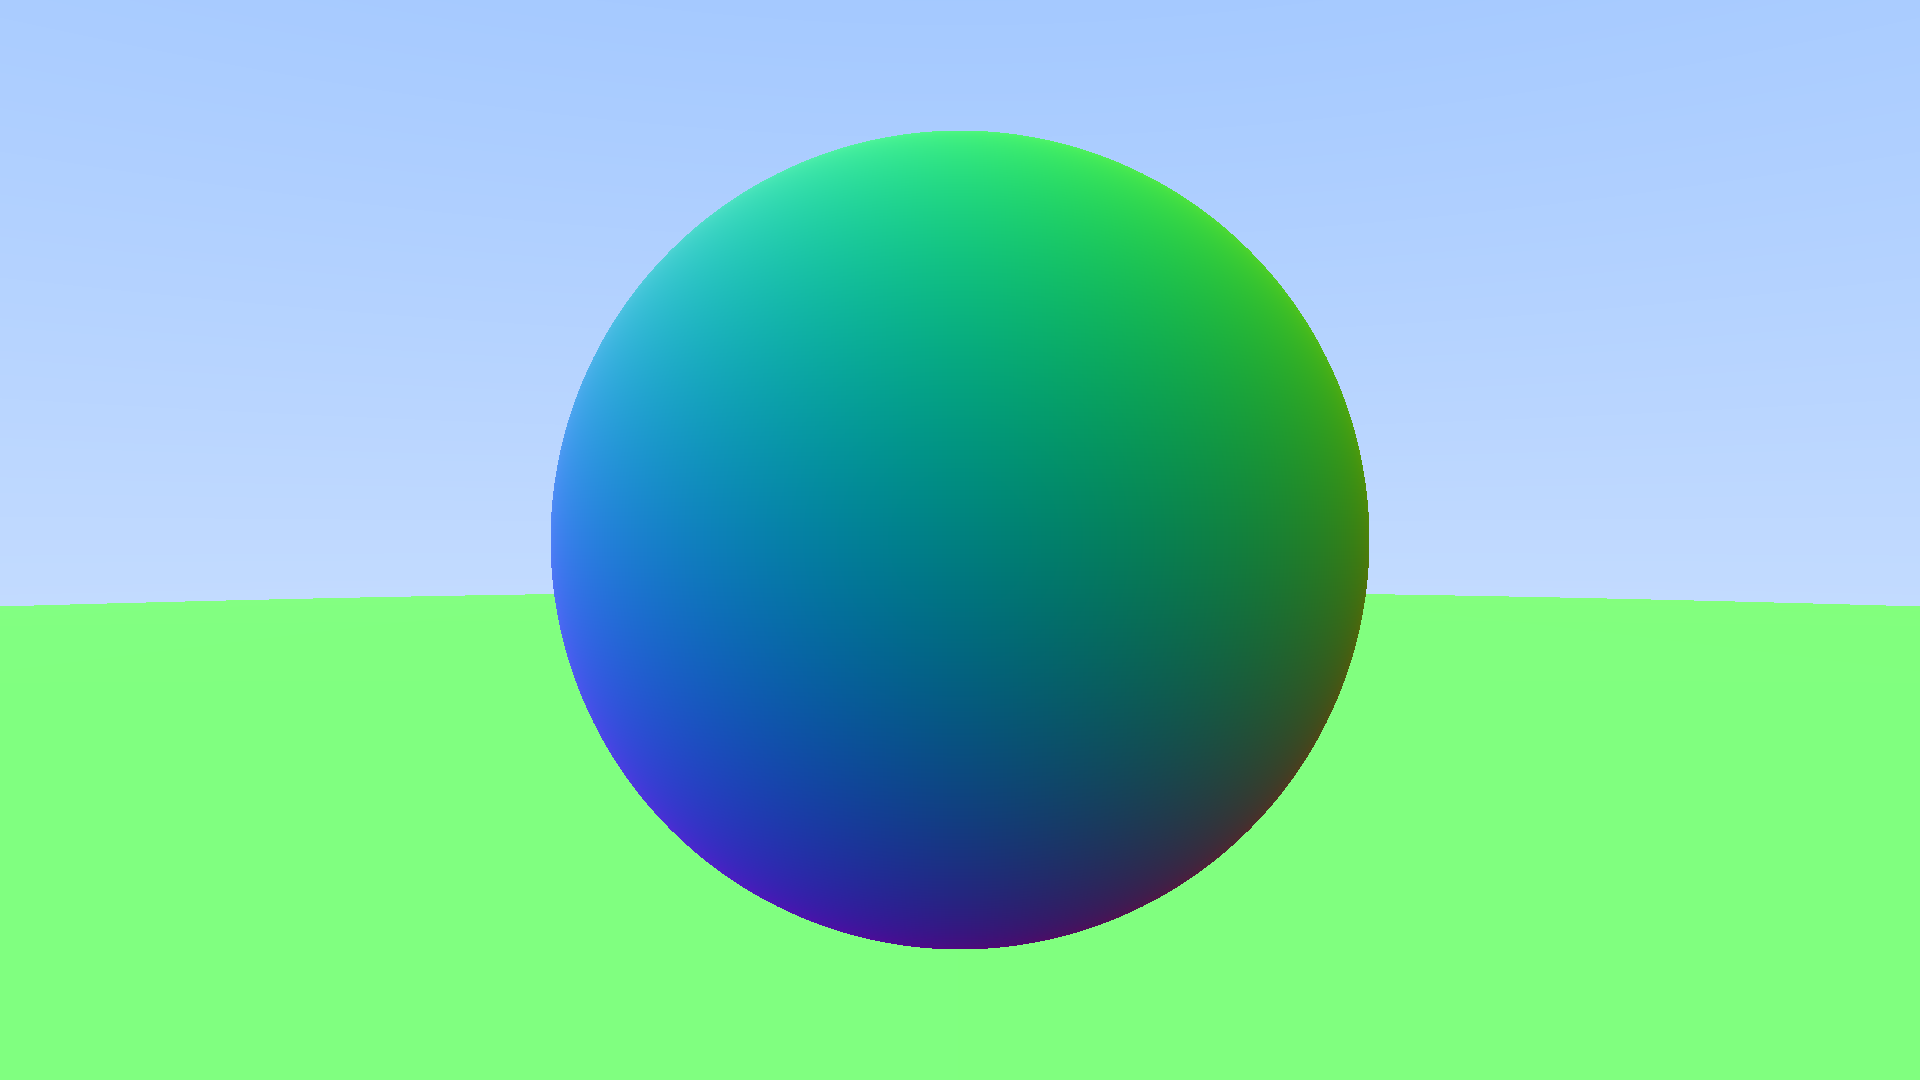
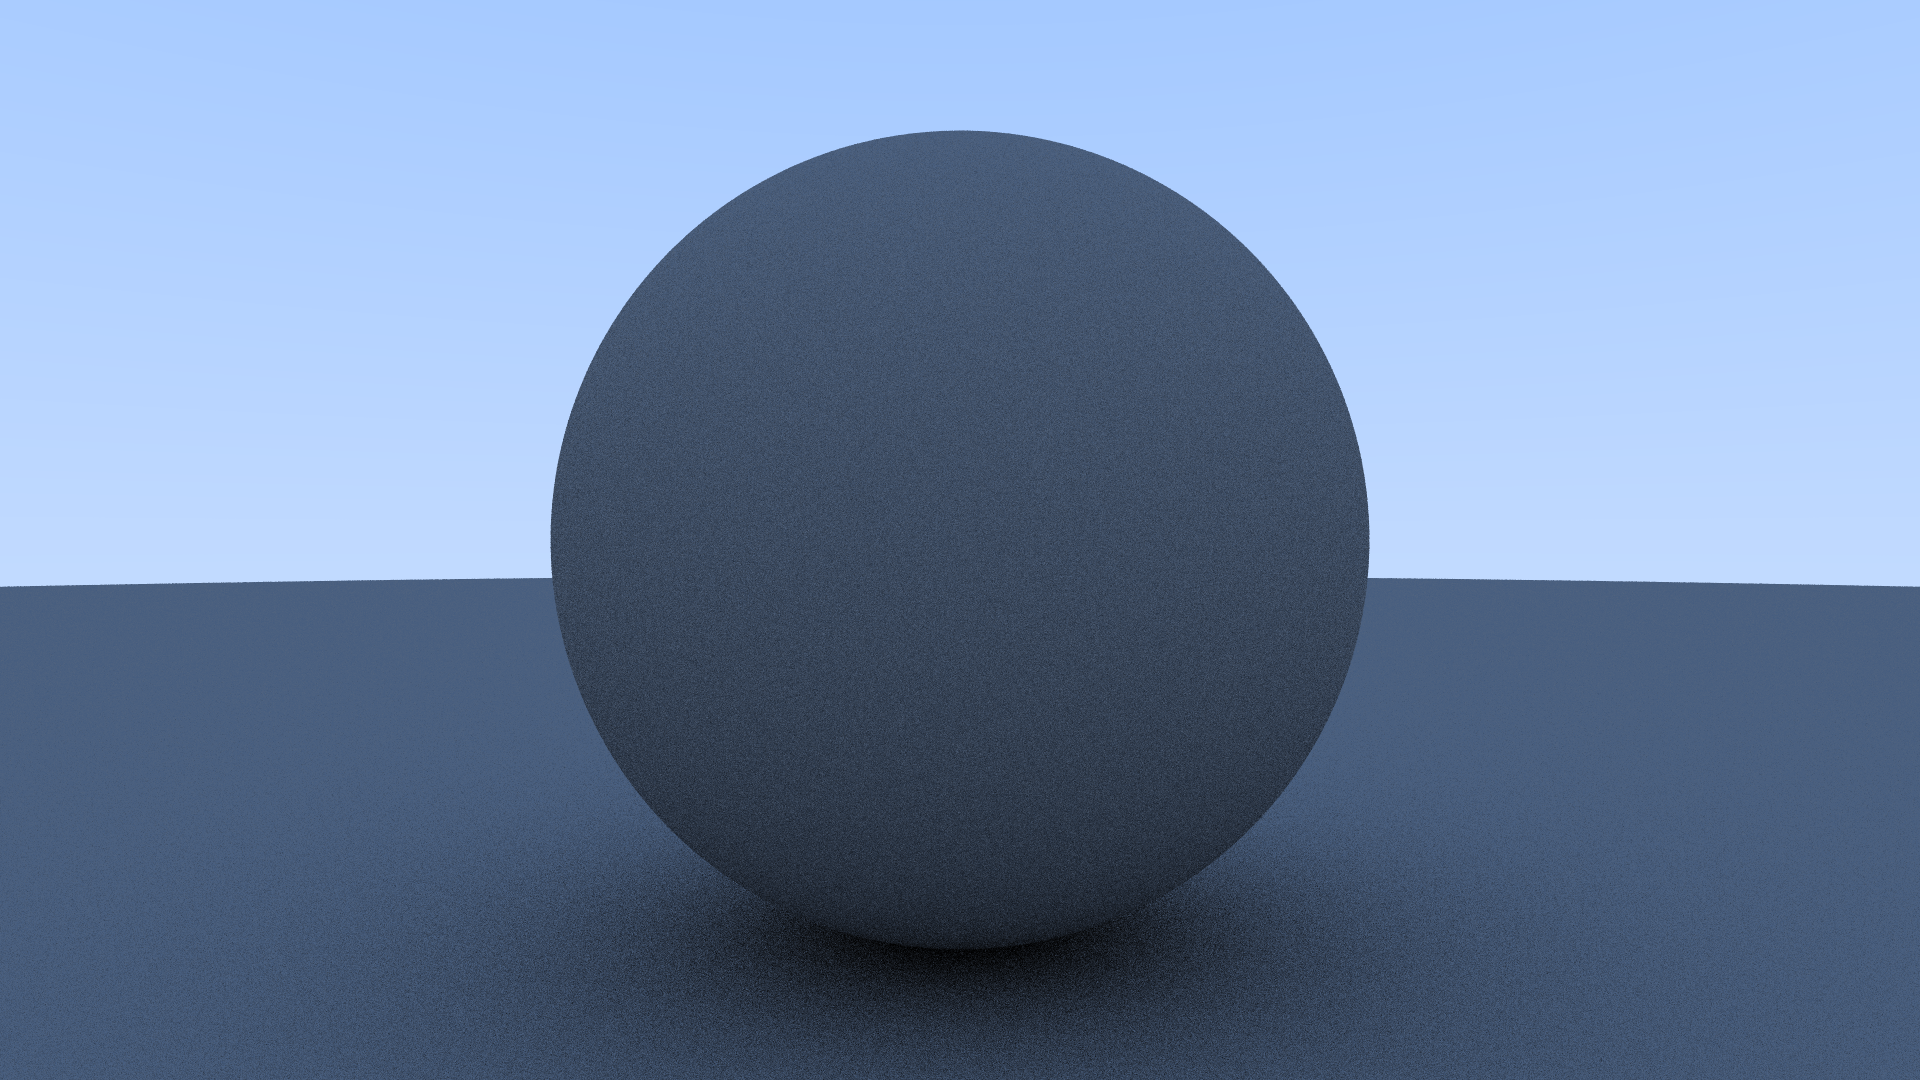
Added diffuse material

diff --git a/src/camera.rs b/src/camera.rs
@@ -1,8 +1,14 @@
 use crate::{
-    interval::Interval, ray::Ray, scene::Scene, vec3::{Color, Point, Vec3},
+    interval::Interval,
+    ray::Ray,
+    scene::Scene,
+    vec3::{Color, Point, Vec3},
 };
 use image::RgbImage;
+use rand::random;
 use rayon::iter::ParallelIterator;
+
+const MAX_DEPTH: i32 = 10;
 
 #[derive(Debug, Clone)]
 pub struct Camera {
@@ -12,6 +18,8 @@ pub struct Camera {
     pixel_delta_x: Vec3,
     pixel_delta_y: Vec3,
     top_left: Point,
+    samples_pr_pixel: u32,
+    pixel_sample_scale: f64,
 }
 
 impl Camera {
@@ -22,6 +30,7 @@ impl Camera {
         center: Point,
         direction: Vec3,
         up_direction: Vec3,
+        samples_pr_pixel: u32,
     ) -> Self {
         let vfov = vfov.to_radians();
         let pixel_width = (pixel_height as f64 * aspect_ratio) as u32;
@@ -46,6 +55,8 @@ impl Camera {
             + pixel_delta_x / 2.
             + pixel_delta_y / 2.;
 
+        let pixel_sample_scale = 1.0 / samples_pr_pixel as f64;
+
         Self {
             pixel_width,
             pixel_height,
@@ -53,6 +64,8 @@ impl Camera {
             pixel_delta_x,
             pixel_delta_y,
             top_left,
+            samples_pr_pixel,
+            pixel_sample_scale,
         }
     }
 
@@ -62,17 +75,19 @@ impl Camera {
         image.par_enumerate_pixels_mut().for_each(|(x, y, pixel)| {
             let pixel_vec =
                 self.top_left + x as f64 * self.pixel_delta_x + y as f64 * self.pixel_delta_y;
-            let direction = pixel_vec - self.center;
-            let ray = Ray::new(self.center, direction);
+            let pixel_dir = pixel_vec - self.center;
 
-            let hit = scene.hit(&ray, ray_t);
+            let mut color = Color::new(0.0, 0.0, 0.0);
 
-            let color: Color = if let Some(hit) = hit {
-                calc_color(hit.normal)
-            } else {
-                let a = (&ray.direction().z() + 1.0) / 2.0;
-                a * Color::new(0.5, 0.7, 1.) + (1. - a) * Color::new(1.0, 1.0, 1.0)
-            };
+            for _ in 0..self.samples_pr_pixel {
+                let ray_dir: Vec3 = pixel_dir
+                    + (random::<f64>() - 0.5) * self.pixel_delta_x
+                    + (random::<f64>() - 0.5) * self.pixel_delta_y;
+                let ray = Ray::new(self.center, ray_dir);
+                color += ray_color(&ray, ray_t, scene, MAX_DEPTH);
+            }
+
+            color *= self.pixel_sample_scale;
 
             *pixel = color.to_rgb();
         });
@@ -81,10 +96,20 @@ impl Camera {
     }
 }
 
-fn calc_color(normal: Vec3) -> Color {
-    let r = (normal.x() + 1.0) / 2.0;
-    let g = (normal.z() + 1.0) / 2.0;
-    let b = (normal.y() + 1.0) / 2.0;
+fn ray_color(ray: &Ray, ray_t: Interval, scene: &Scene, depth: i32) -> Color {
+    if depth <= 0 {
+        return Color::new(0.0, 0.0, 0.0);
+    }
 
-    Color::new(r, g, b)
+    let hit = scene.hit(ray, ray_t);
+
+    if let Some(hit) = hit {
+        let hit_point = ray.point_at(hit.distance);
+        let direction = hit.normal + Vec3::random_unit_vec();
+        let new_ray = Ray::new(hit_point, direction);
+        0.5 * ray_color(&new_ray, ray_t, scene, depth - 1)
+    } else {
+        let a = (&ray.direction().z() + 1.0) / 2.0;
+        a * Color::new(0.5, 0.7, 1.) + (1. - a) * Color::new(1.0, 1.0, 1.0)
+    }
 }

diff --git a/src/vec3.rs b/src/vec3.rs
@@ -1,5 +1,7 @@
 use image::Rgb;
+use rand::random;
 use std::ops::{Add, AddAssign, Div, DivAssign, Mul, MulAssign, Neg, Sub, SubAssign};
+
 
 // Vector constants
 pub const UNIT_X: Vec3 = Vec3::new(1., 0., 0.);
@@ -75,6 +77,30 @@ impl Vec3 {
 
         Rgb([x, y, z])
     }
+
+    pub fn random_unit_vec() -> Vec3 {
+        loop {
+            let x = random::<f64>() * 2.0 - 1.0;
+            let y = random::<f64>() * 2.0 - 1.0;
+            let z = random::<f64>() * 2.0 - 1.0;
+            
+            let vec = Vec3::new(x, y, z);
+            let len_sq = vec.length_squared();
+
+            if len_sq > 1e-160 && len_sq <= 1.0 {
+                return vec / len_sq.sqrt()
+            }
+        }
+    }
+
+    pub fn random_on_hemisphere(normal: Vec3) -> Vec3 {
+        let vec = Self::random_unit_vec();
+        if vec.dot(normal) >= 0.0 {
+            vec
+        } else {
+            -vec
+        }
+    }
 }
 
 impl Add for Vec3 {
@@ -112,7 +138,6 @@ impl Add<f64> for Vec3 {
         Self::new(self.x() + rhs, self.y() + rhs, self.z() + rhs)
     }
 }
-
 
 impl AddAssign<f64> for Vec3 {
     fn add_assign(&mut self, rhs: f64) {

diff --git a/src/main.rs b/src/main.rs
@@ -12,10 +12,10 @@ use raytracer::{
 fn main() -> Result<()> {
     let mut scene = Scene::default();
 
-    scene.push_shape(Box::new(Sphere::new(Point::new(3.0, 0.0, 0.0), 1.0)));
-    scene.push_shape(Box::new(Sphere::new(
+    scene.add_shape(Box::new(Sphere::new(Point::new(3.0, 0.0, 0.0), 1.0)));
+    scene.add_shape(Box::new(Sphere::new(
         Point::new(1.5, 0.0, -2000.0),
-        -1998.0,
+        1999.0,
     )));
 
     let camera = Camera::new(
@@ -25,9 +25,10 @@ fn main() -> Result<()> {
         Point::new(0.0, 0.0, 0.0),
         Vec3::new(1.0, 0.0, 0.0),
         Vec3::new(0.0, 0.0, 1.0),
+        16,
     );
 
-    let ray_t = Interval::new(0.0, f64::INFINITY);
+    let ray_t = Interval::new(0.001, f64::INFINITY);
 
     let start = Instant::now();
 

diff --git a/src/scene.rs b/src/scene.rs
@@ -14,7 +14,7 @@ impl Scene {
         Self { shapes }
     }
 
-    pub fn push_shape(&mut self, shape: Box<dyn Hittable>) {
+    pub fn add_shape(&mut self, shape: Box<dyn Hittable>) {
         self.shapes.push(shape);
     }
 
